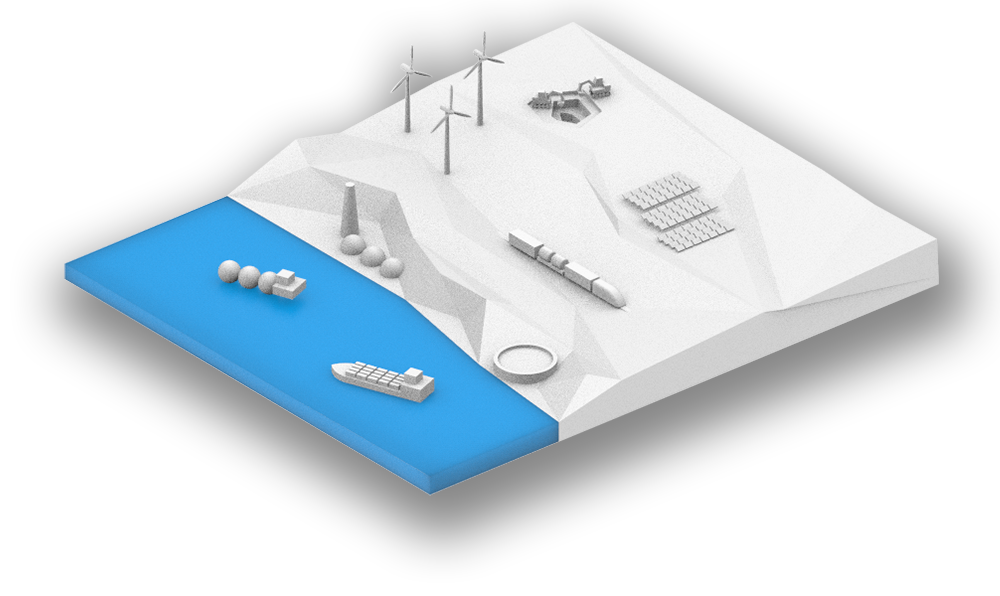
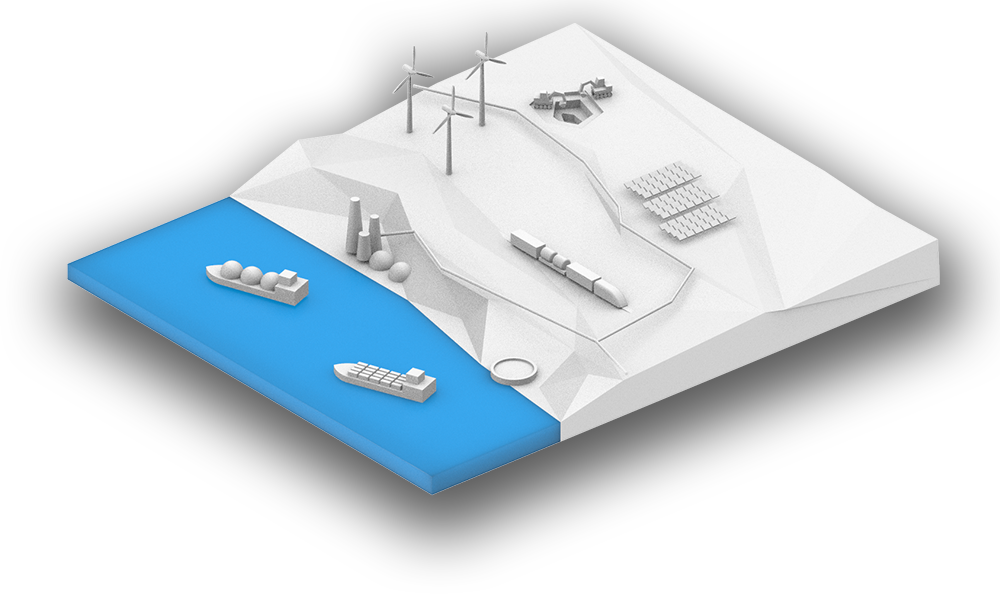
update

diff --git a/index.html b/index.html
@@ -384,7 +384,23 @@
 							<h1 class="mb-5 text-dark">Project Overview </br>
 								And Rationale</h1>
 							<p class="">Global energy supplied by Green Hydrogen is rising and there is an unlimited potential market for renewable energy. Our proposal is to focus on the best solar location of the world, building a sustainable chain of production and transportation of Green Hydrogen, aiming to exports to the world, developing the country and its people.							</p>
-							<img src="./img/process-overview.jpg" class="img-fluid mt-3" alt="Process Overview">
+							
+							<div class="row d-flex justify-content-center mt-3">
+								<div id="carouselExampleSlidesOnly" class="carousel slide carousel-fade col-lg-12 mb-5" data-ride="carousel" data-interval="3500" data-keyboard="false" >
+								  <div class="carousel-inner">
+									<div class="carousel-item active">
+									  	<img class="d-block w-100" src="./img/process-overview-1.png" alt="Project Overview 1">
+									</div>
+									<div class="carousel-item">
+										<img class="d-block w-100" src="./img/process-overview-2.png" alt="Project Overview 2">
+									</div>
+									<div class="carousel-item">
+										<img class="d-block w-100" src="./img/process-overview-3.png" alt="Project Overview 3">
+									</div>
+								  </div>
+								</div>
+							  </div>
+							  
 						</div>
 					</div>
 				</div>

diff --git a/css/style.css b/css/style.css
@@ -216,6 +216,32 @@ h5{
 	font-size: 18px;
 }
 
+.carousel-fade .carousel-item {
+	opacity: 0;
+	transition-duration: .01s;
+	transition-property: opacity;
+}
+
+.carousel-fade .carousel-item.active,
+.carousel-fade .carousel-item-next.carousel-item-left,
+.carousel-fade .carousel-item-prev.carousel-item-right {
+	opacity: 1;
+}
+
+.carousel-fade .active.carousel-item-left,
+.carousel-fade .active.carousel-item-right {
+	opacity: 0;
+}
+
+.carousel-fade .carousel-item-next,
+.carousel-fade .carousel-item-prev,
+.carousel-fade .carousel-item.active,
+.carousel-fade .active.carousel-item-left,
+.carousel-fade .active.carousel-item-prev {
+	transform: translateX(0);
+	transform: translate3d(0, 0, 0);
+}
+
 .color-1::before {
 	color: #00d3e7;
 }
